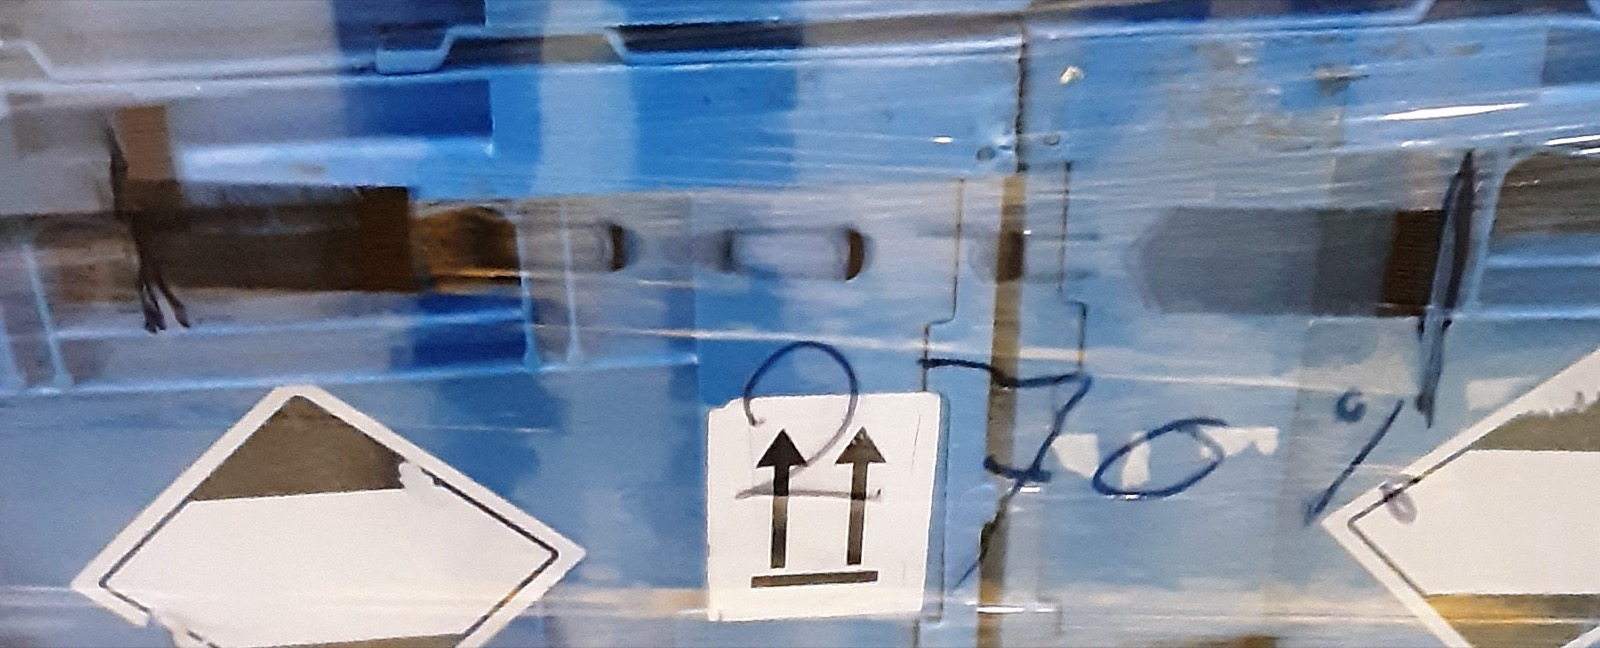
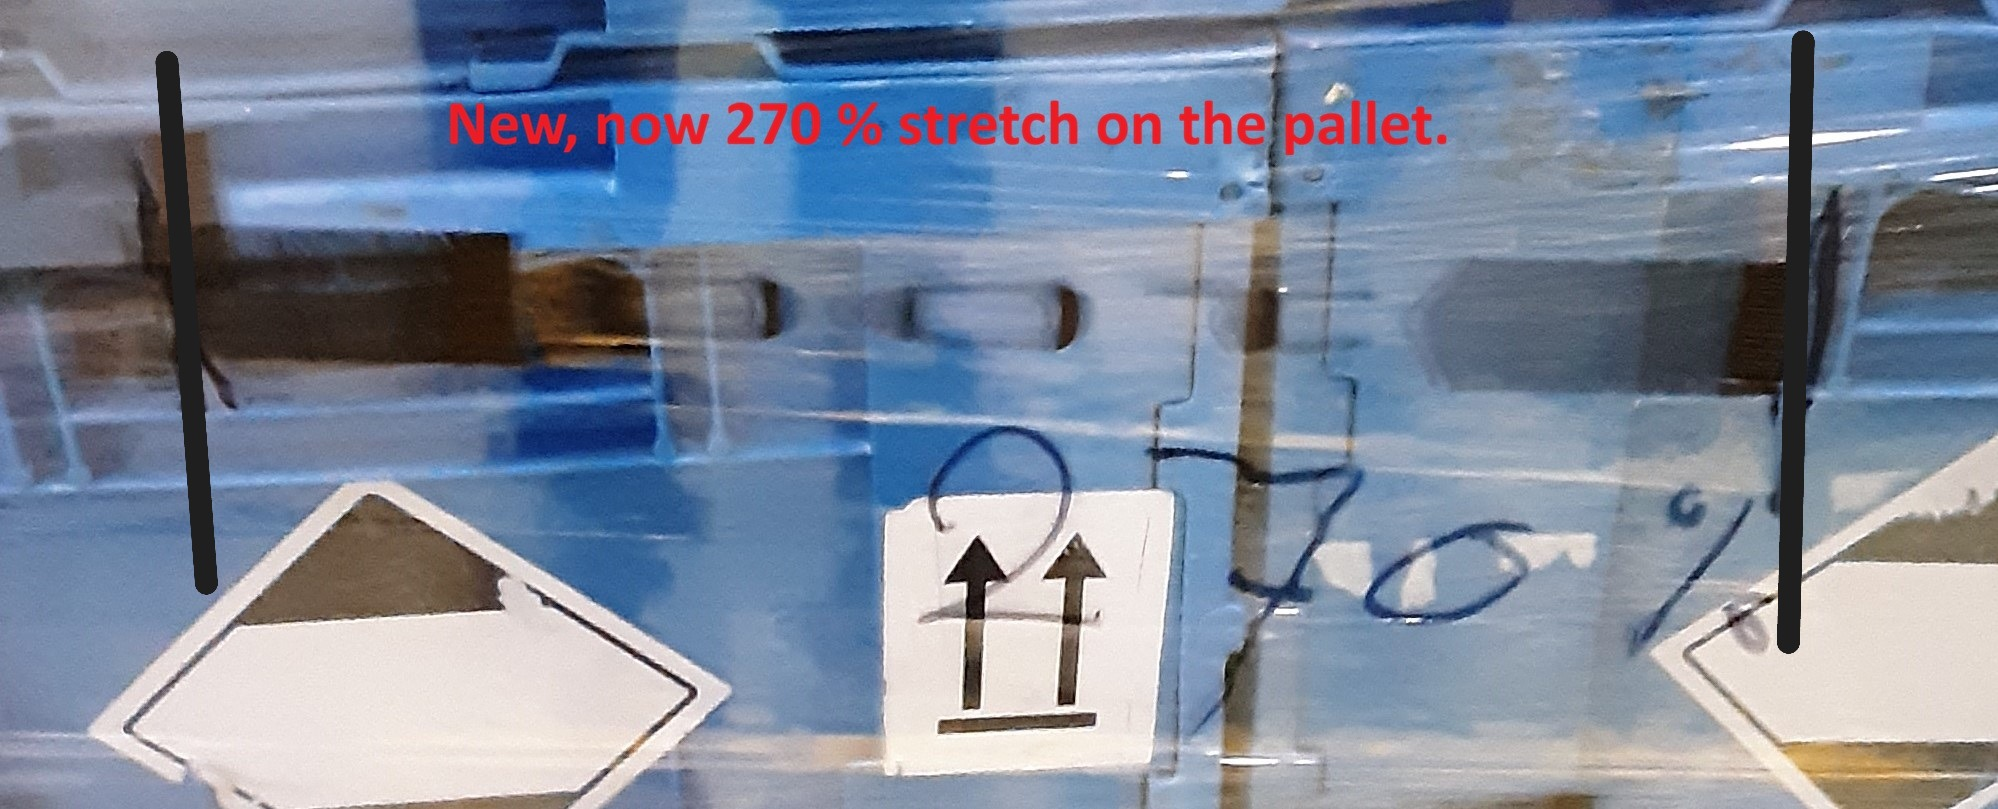
redesign(films): editorial diptych for DM Hungary case study
New before/after photos from Egbert (red overlay labels for 170%/270%
pre-stretch). Surrounding section lifted to an editorial exhibit:
hairline frame top/bottom + vertical divider, 01/02 serif numerals
with BEFORE/AFTER red overlines, structured caption with film name
and KPI specs. Forced aspect-[247/100] so both photos render at the
same height. Caption strings restructured into i18n-ready fields
(Index/Label/MetaPrimary/MetaSecondary) in content.ts.

diff --git a/src/components/sections/films/CaseStudyDM.tsx b/src/components/sections/films/CaseStudyDM.tsx
@@ -23,40 +23,71 @@ export function CaseStudyDM() {
           />
         </FadeIn>
 
-        <FadeIn delay={0.1} className="mt-12 lg:mt-16">
-          <div className="grid gap-6 md:grid-cols-2 md:gap-8">
-            <figure>
-              <div className="overflow-hidden rounded-sm border border-white/10 bg-white">
-                <Image
-                  src={caseStudy.beforeImage}
-                  alt={caseStudy.beforeAlt}
-                  width={1535}
-                  height={594}
-                  sizes="(max-width: 768px) 100vw, 50vw"
-                  className="h-auto w-full object-contain"
-                />
-              </div>
-              <figcaption className="mt-3 text-sm leading-relaxed text-slate-400">
-                {caseStudy.beforeCaption}
-              </figcaption>
-            </figure>
-            <figure>
-              <div className="overflow-hidden rounded-sm border border-white/10 bg-white">
-                <Image
-                  src={caseStudy.afterImage}
-                  alt={caseStudy.afterAlt}
-                  width={1998}
-                  height={809}
-                  sizes="(max-width: 768px) 100vw, 50vw"
-                  className="h-auto w-full object-contain"
-                />
-              </div>
-              <figcaption className="mt-3 text-sm leading-relaxed text-slate-400">
-                {caseStudy.afterCaption}
-              </figcaption>
-            </figure>
+        <div className="mt-12 border-y border-slate-700 lg:mt-16">
+          <div className="grid grid-cols-1 md:grid-cols-2">
+            <FadeIn
+              delay={0.1}
+              className="border-b border-slate-700 md:border-r md:border-b-0"
+            >
+              <figure className="pt-6 pb-7 md:pr-6 lg:pr-10">
+                <header className="flex items-baseline gap-4 pb-5">
+                  <span className="font-serif text-3xl leading-none text-slate-500 tabular-nums">
+                    {caseStudy.beforeIndex}
+                  </span>
+                  <span className="text-[11px] font-semibold tracking-[0.2em] text-red-400 uppercase">
+                    {caseStudy.beforeLabel}
+                  </span>
+                </header>
+                <div className="relative aspect-[247/100] overflow-hidden">
+                  <Image
+                    src={caseStudy.beforeImage}
+                    alt={caseStudy.beforeAlt}
+                    fill
+                    sizes="(max-width: 768px) 100vw, 50vw"
+                    className="object-cover"
+                  />
+                </div>
+                <figcaption className="pt-5">
+                  <p className="font-sans text-base leading-snug font-medium text-white">
+                    {caseStudy.beforeMetaPrimary}
+                  </p>
+                  <p className="mt-1.5 font-sans text-sm leading-relaxed text-slate-400">
+                    {caseStudy.beforeMetaSecondary}
+                  </p>
+                </figcaption>
+              </figure>
+            </FadeIn>
+            <FadeIn delay={0.25}>
+              <figure className="pt-6 pb-7 md:pl-6 lg:pl-10">
+                <header className="flex items-baseline gap-4 pb-5">
+                  <span className="font-serif text-3xl leading-none text-slate-500 tabular-nums">
+                    {caseStudy.afterIndex}
+                  </span>
+                  <span className="text-[11px] font-semibold tracking-[0.2em] text-red-400 uppercase">
+                    {caseStudy.afterLabel}
+                  </span>
+                </header>
+                <div className="relative aspect-[247/100] overflow-hidden">
+                  <Image
+                    src={caseStudy.afterImage}
+                    alt={caseStudy.afterAlt}
+                    fill
+                    sizes="(max-width: 768px) 100vw, 50vw"
+                    className="object-cover"
+                  />
+                </div>
+                <figcaption className="pt-5">
+                  <p className="font-sans text-base leading-snug font-medium text-white">
+                    {caseStudy.afterMetaPrimary}
+                  </p>
+                  <p className="mt-1.5 font-sans text-sm leading-relaxed text-slate-400">
+                    {caseStudy.afterMetaSecondary}
+                  </p>
+                </figcaption>
+              </figure>
+            </FadeIn>
           </div>
-        </FadeIn>
+        </div>
 
         <div className="mt-12 grid gap-12 lg:mt-16 lg:grid-cols-5 lg:items-center lg:gap-16">
           <FadeIn className="lg:col-span-2" direction="left">

diff --git a/src/lib/content.ts b/src/lib/content.ts
@@ -572,11 +572,17 @@ export const films = {
     beforeImage: '/images/films/dm-hungary-before.jpg',
     beforeAlt:
       'DM Hungary pallet wrapped with 17-micron standard film at 170% pre-stretch, before the switch to multilayer.',
-    beforeCaption: 'Before: 17µm standard film at 170% pre-stretch.',
+    beforeIndex: '01',
+    beforeLabel: 'Before',
+    beforeMetaPrimary: '17µm standard film',
+    beforeMetaSecondary: '178 g per pallet · 9.5 kg holding force',
     afterImage: '/images/films/dm-hungary-after.jpg',
     afterAlt:
       'Same DM Hungary pallet line wrapped with Nano SE 15-micron multilayer film at 270% pre-stretch, after the switch.',
-    afterCaption: 'After: Nano SE 15µm at 270% pre-stretch.',
+    afterIndex: '02',
+    afterLabel: 'After',
+    afterMetaPrimary: 'Nano SE 15µm multilayer',
+    afterMetaSecondary: '104 g per pallet · 19 kg holding force',
     eumosImage: '/images/films/eumos-acceleration-test.jpeg',
     eumosAlt:
       'EUMOS 40509 acceleration test of a wrapped pallet, showing the load held within tolerance with less than 2% layer displacement at 1280mm',
